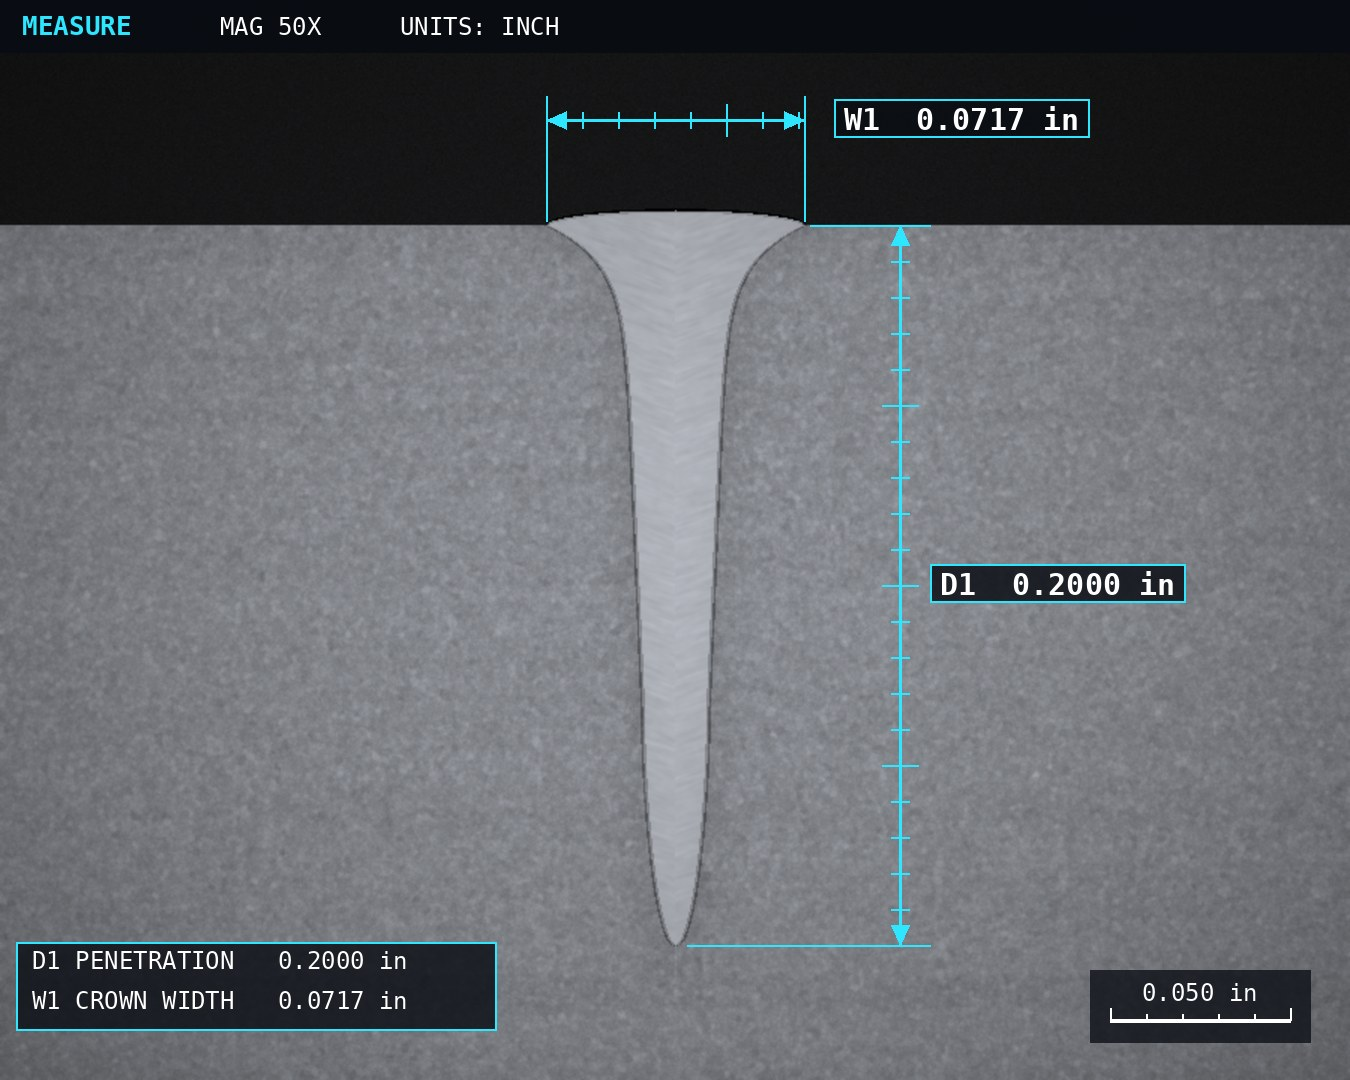
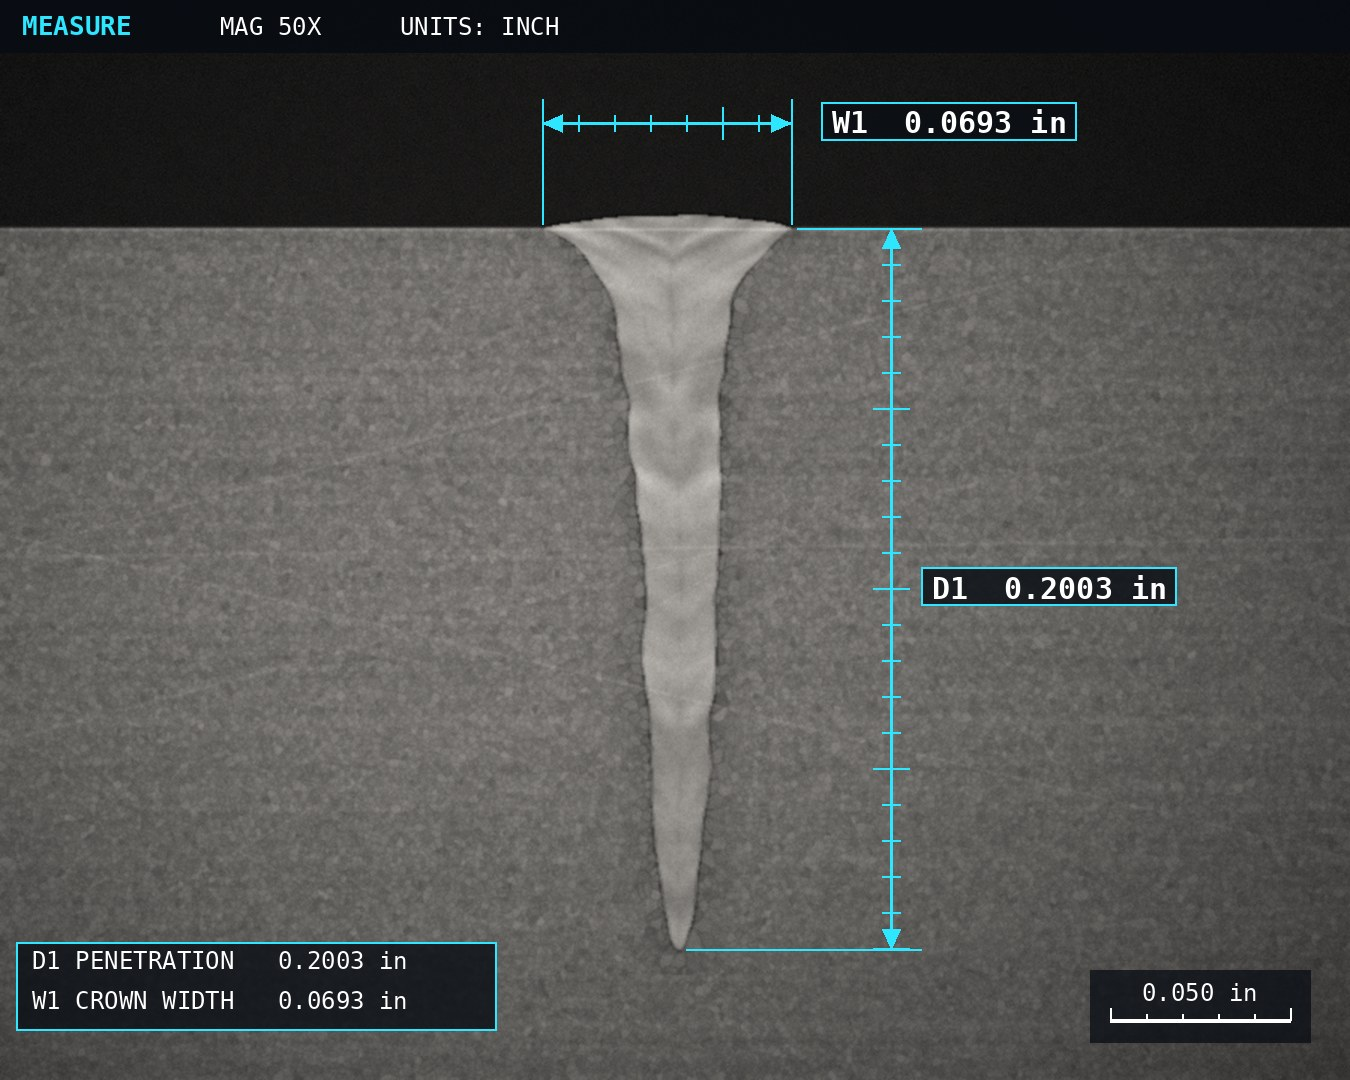
More realistic cross section

diff --git a/index.html b/index.html
@@ -29,8 +29,8 @@
       <div class="hero-btns"><a class="btn" href="contact.html">Request a Quote</a><a class="btn ghost light" href="parts.html">Parts We Weld</a></div>
     </div>
     <figure class="hero-fig">
-      <img src="images/weld-cross-section-measured.jpg" alt="Illustration of a keyhole laser weld cross section with digital microscope measurements of 0.200 inch penetration and 0.0717 inch crown width">
-      <figcaption>Typical keyhole laser weld profile. 0.200 in. penetration, 0.072 in. crown width.</figcaption>
+      <img src="images/weld-cross-section-measured.jpg" alt="Illustration of a keyhole laser weld cross section with digital microscope measurements of 0.200 inch penetration and 0.069 inch crown width">
+      <figcaption>Typical keyhole laser weld profile. 0.200 in. penetration, 0.069 in. crown width.</figcaption>
     </figure>
   </div>
 </section>
@@ -38,7 +38,7 @@
 <section class="stats"><div class="wrap stat-row">
   <div><b>1965</b><span>Our roots in precision welding</span></div>
   <div><b>2 days</b><span>Quote turnaround</span></div>
-  <div><b>100%</b><span>Visual inspection at 10X</span></div>
+  <div><b>10X</b><span>Visual and cross section verification</span></div>
   <div><b>2</b><span>Locations, NY and FL</span></div>
 </div></section>
 
@@ -81,7 +81,7 @@
     <p>Our quality management system is built to ISO 9001:2026. Every job runs under the Weld Solutions Laser Welding Specification, WS-LWS-001, with qualified weld schedules, qualified operators, calibrated equipment and full lot traceability.</p>
     <ul class="checks">
       <li>AWS D17.1, AWS C7.4 and AWS C7.2 when specified</li>
-      <li>100% visual inspection at 10X</li>
+      <li>100% visual inspection at 10X and cross section verification</li>
       <li>Certificate of Conformance with every shipment</li>
       <li>Customer audits welcome</li>
     </ul>

diff --git a/about.html b/about.html
@@ -35,8 +35,8 @@
     <p>Steven never lost his passion for the industry. He still consults on welding and laser technology, and he recently began offering welding services after seeing a real need for quick delivery and high quality at a price that does not carry the cost of tremendous overhead. That is what Weld Solutions is built to do.</p>
   </div>
   <figure class="fig">
-    <img src="images/eb-industries-early-years.jpg" alt="Electron beam welding at EB Industries in its early years">
-    <figcaption>Electron beam welding at EB Industries, Farmingdale, NY, in the early years.</figcaption>
+    <img src="images/eb-industries-early-years.jpg" alt="Steven DeLalio at age 16 at an electron beam welder at EB Industries">
+    <figcaption>Steven DeLalio, at age 16, gets his first introduction to electron beam welding at EB Industries.</figcaption>
   </figure>
 </div></section>
 
